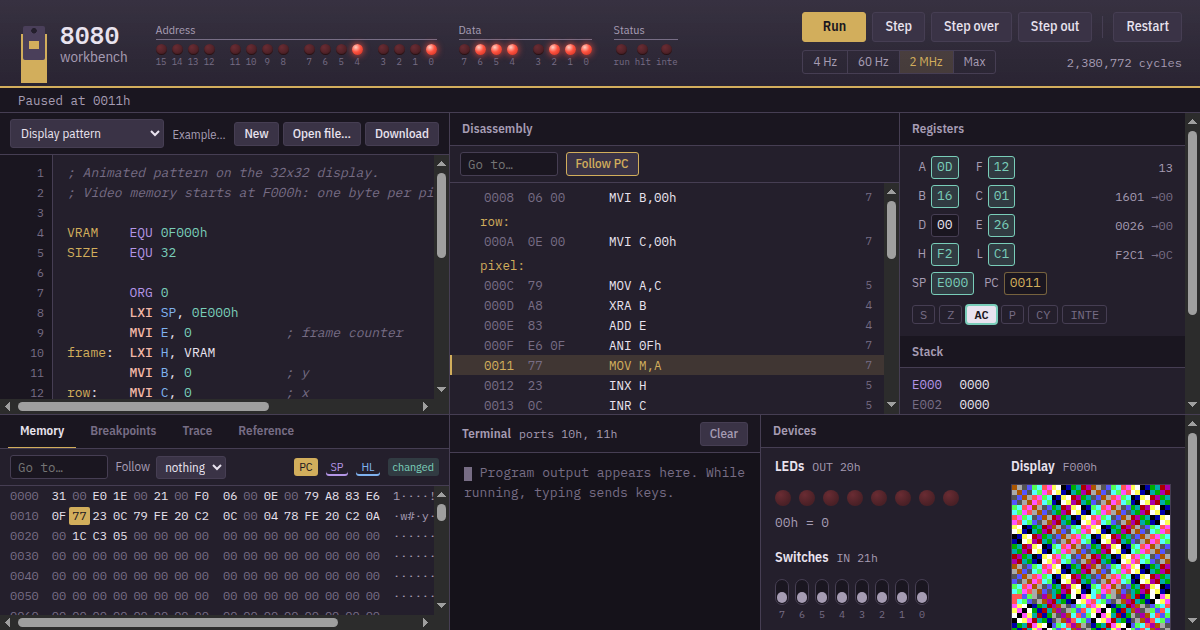
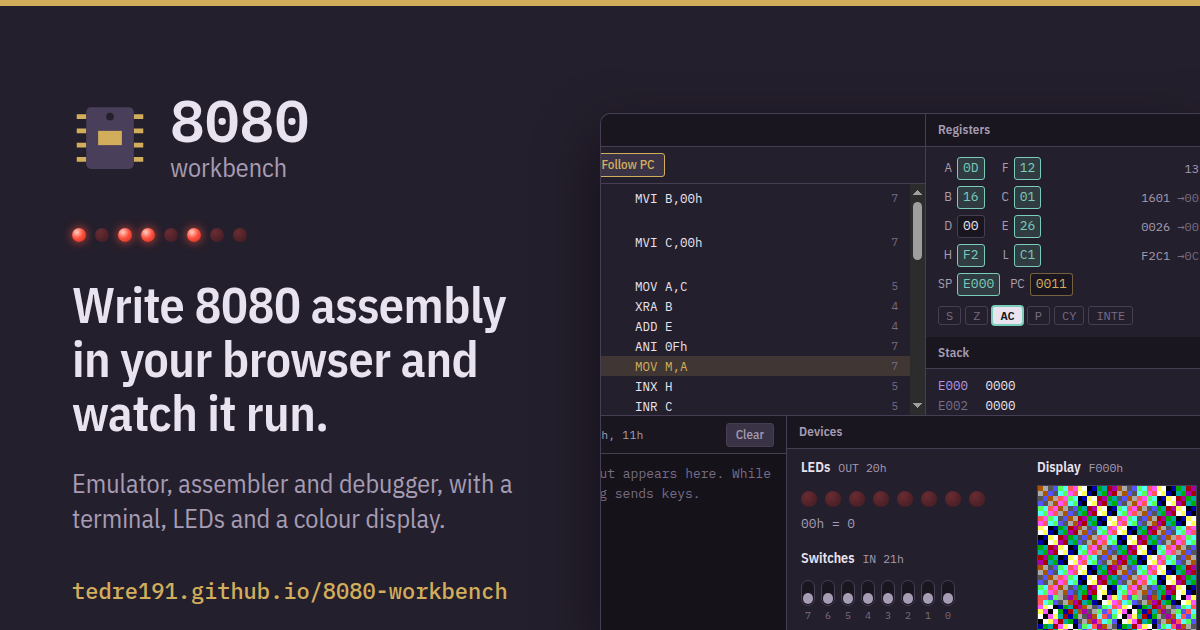
Improve link previews and search snippets
Following opengraph.xyz's checks:
- Shorter title (49 characters) and description (149), under the lengths
  Google truncates at.
- og:site_name, a descriptive og:title, and an og:description that adds
  to the title instead of repeating it.
- A preview image with a headline, the name and the URL, next to a crop
  of the running workbench.

diff --git a/apps/web/index.html b/apps/web/index.html
@@ -3,10 +3,10 @@
   <head>
     <meta charset="UTF-8" />
     <meta name="viewport" content="width=device-width, initial-scale=1.0" />
-    <title>8080 Workbench – Intel 8080 emulator and assembler in your browser</title>
+    <title>8080 Workbench: Intel 8080 emulator and assembler</title>
     <meta
       name="description"
-      content="Write Intel 8080 assembly in your browser and watch it run: a cycle-accurate emulator with an assembler, debugger, breakpoints, a terminal, LEDs and a colour display. Free and open source."
+      content="Write Intel 8080 assembly in your browser and run it on a cycle-accurate emulator, with a debugger, terminal, LEDs and a colour display. Open source."
     />
     <link rel="canonical" href="https://tedre191.github.io/8080-workbench/" />
     <meta name="theme-color" content="#2f2939" />
@@ -14,18 +14,22 @@
 
     <!-- Link previews (Open Graph and Twitter/X) -->
     <meta property="og:type" content="website" />
+    <meta property="og:site_name" content="8080 Workbench" />
     <meta property="og:url" content="https://tedre191.github.io/8080-workbench/" />
-    <meta property="og:title" content="8080 Workbench" />
+    <meta
+      property="og:title"
+      content="Intel 8080 emulator, assembler and debugger in your browser"
+    />
     <meta
       property="og:description"
-      content="An Intel 8080 emulator, assembler and debugger in your browser. Write assembly, step through it, and watch the machine run."
+      content="Write 8080 assembly, step through it an instruction at a time, and watch registers, memory and devices change. Free and open source."
     />
     <meta property="og:image" content="https://tedre191.github.io/8080-workbench/og-image.png" />
     <meta property="og:image:width" content="1200" />
     <meta property="og:image:height" content="630" />
     <meta
       property="og:image:alt"
-      content="The 8080 Workbench: assembly source, disassembly, registers, memory and an animated colour display"
+      content="8080 Workbench: write 8080 assembly in your browser and watch it run. Shows the registers, LEDs and colour display."
     />
     <meta name="twitter:card" content="summary_large_image" />
 
